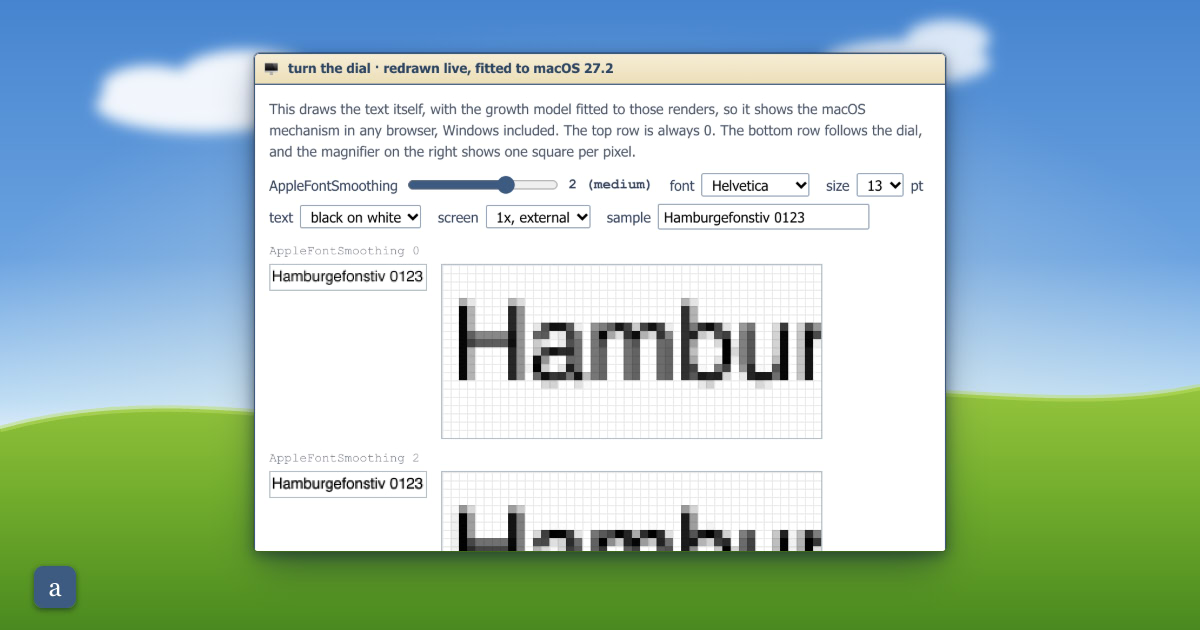
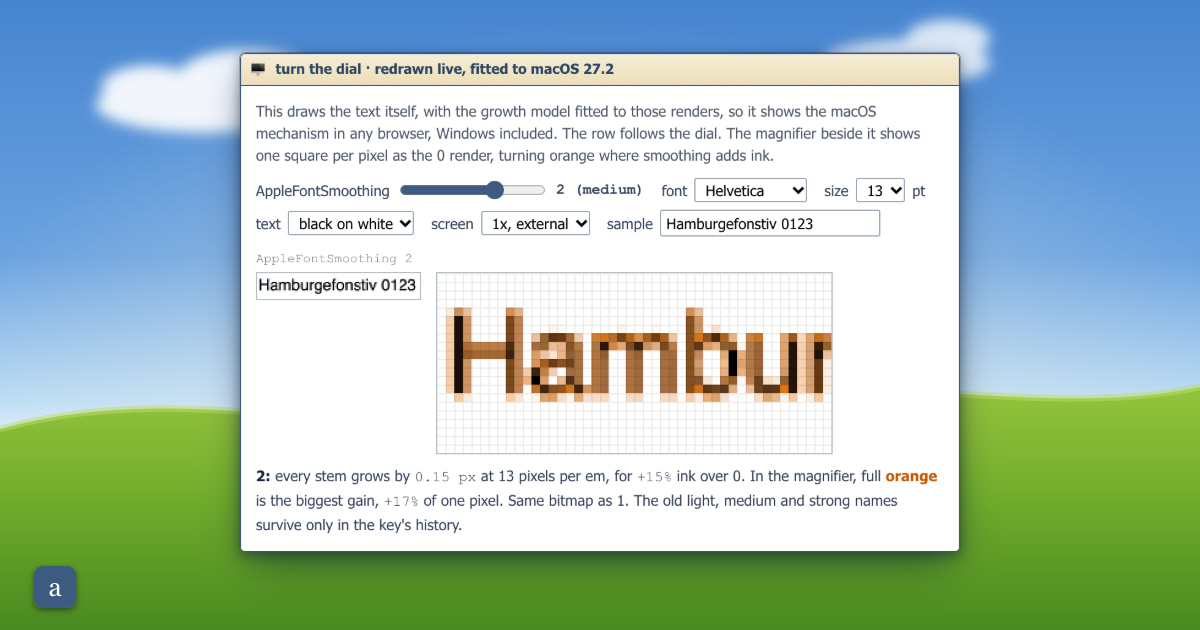
feat(lwe/smoothing): mark the added ink in orange instead of a 0 row
The dial showed a fixed AppleFontSmoothing 0 row above the row that
follows the slider. The slider already reaches 0, so the comparison now
lives inside one picture: the magnifier draws the 0 render and pulls each
pixel toward orange by how much ink smoothing added there.

The tint scales to the largest gain in view, and the readout prints that
peak (+17% of one pixel for 13 pt black-on-white, +41% white-on-black).
An unscaled tint was too faint to find, because a 13 pt edge pixel gains
about 7%. Per-pixel outlines were tried and dropped: at 1x nearly every
inked pixel is an edge pixel, so they boxed the whole word.

The raster width now reserves the 0.6 px growth cap, so the 0 render and
the grown render always share dimensions. Without that, a growth that
crossed a pixel boundary made the arrays one column apart and the
white-on-black readout printed NaN. Checked across 288 font, size,
polarity, scale and value combinations. The OG card is rebaked from the
new dial.

Changed region(s): [[0.185, 0.0603, 0.8325, 0.9048], [0.6783, 0.4222, 0.7092, 0.4524]]

diff --git a/src/pages/lwe/smoothing.html b/src/pages/lwe/smoothing.html
@@ -22,7 +22,7 @@
 <link rel="stylesheet" href="/lwe-base.css">
 <style>:root{--accent:#3d5a80;--accent-soft:var(--surface-desktop);--glyph:"a";--pic-g0:#6b88b0;--pic-g1:#3d5a80;--pic-border:#2c4462;--name-color:#2c4462;--glyph-font:Georgia, serif}
 .msg .bubble code { font-family: var(--font-mono); font-size: var(--text-sm); background: var(--face-light); padding: 0 3px; border-radius: 2px; }
-.fs-ctl{display:flex;flex-wrap:wrap;gap:6px 14px;align-items:center;margin:0 0 10px;font-size:var(--text-xs);color:var(--slate-38)}.fs-ctl label{display:flex;flex-wrap:wrap;align-items:center;gap:6px;max-width:100%}.fs-ctl select,.fs-ctl input[type=text],.fs-ctl input:not([type]){font:inherit;font-size:var(--text-xs);padding:1px 4px;border:1px solid var(--slate-73);border-radius:2px;background:#fff}.fs-ctl input[type=range]{accent-color:var(--accent);width:9em;max-width:45vw}.fs-txt input{width:15em;max-width:100%}.fs-row{margin:0 0 8px}.fs-lab{font-size:var(--text-2xs);color:var(--slate-55);font-family:var(--font-mono);margin:0 0 3px}.fs-pair{display:flex;gap:12px;align-items:flex-start;flex-wrap:wrap}.fs-act{image-rendering:pixelated;display:block;max-width:100%;border:1px solid var(--slate-80)}.fs-mag{image-rendering:pixelated;display:block;max-width:100%;height:auto;border:1px solid var(--slate-80)}.fs-big{display:block;max-width:100%;height:auto;border:1px solid var(--slate-80)}.fs-out{font-size:var(--text-xs);color:var(--slate-38);margin:8px 0 0;line-height:1.5}.fs-out b{color:var(--slate-26)}.demo .mono{font-family:var(--font-mono)}.st-n{color:var(--slate-55)}.pp-tbl{border-collapse:collapse;font-size:var(--text-xs)}.pp-tbl td{padding:2px 14px 2px 0;border-bottom:1px solid var(--mist-96)}.pp-tbl td:first-child{color:var(--slate-55)}.pp-v{font-size:var(--text-xs);color:var(--slate-26);margin:8px 0 0;line-height:1.5}
+.fs-ctl{display:flex;flex-wrap:wrap;gap:6px 14px;align-items:center;margin:0 0 10px;font-size:var(--text-xs);color:var(--slate-38)}.fs-ctl label{display:flex;flex-wrap:wrap;align-items:center;gap:6px;max-width:100%}.fs-ctl select,.fs-ctl input[type=text],.fs-ctl input:not([type]){font:inherit;font-size:var(--text-xs);padding:1px 4px;border:1px solid var(--slate-73);border-radius:2px;background:#fff}.fs-ctl input[type=range]{accent-color:var(--accent);width:9em;max-width:45vw}.fs-txt input{width:15em;max-width:100%}.fs-row{margin:0 0 8px}.fs-lab{font-size:var(--text-2xs);color:var(--slate-55);font-family:var(--font-mono);margin:0 0 3px}.fs-pair{display:flex;gap:12px;align-items:flex-start;flex-wrap:wrap}.fs-act{image-rendering:pixelated;display:block;max-width:100%;border:1px solid var(--slate-80)}.fs-mag{image-rendering:pixelated;display:block;max-width:100%;height:auto;border:1px solid var(--slate-80)}.fs-big{display:block;max-width:100%;height:auto;border:1px solid var(--slate-80)}.fs-out{font-size:var(--text-xs);color:var(--slate-38);margin:8px 0 0;line-height:1.5}.fs-out b{color:var(--slate-26)}.fs-mark{color:#c25a00;font-weight:bold}.demo .mono{font-family:var(--font-mono)}.st-n{color:var(--slate-55)}.pp-tbl{border-collapse:collapse;font-size:var(--text-xs)}.pp-tbl td{padding:2px 14px 2px 0;border-bottom:1px solid var(--mist-96)}.pp-tbl td:first-child{color:var(--slate-55)}.pp-v{font-size:var(--text-xs);color:var(--slate-26);margin:8px 0 0;line-height:1.5}
 body { text-wrap: pretty; } /* progressive; older engines ignore it */
 </style>
 <link rel="stylesheet" href="/luna.css">
@@ -58,7 +58,7 @@ body { text-wrap: pretty; } /* progressive; older engines ignore it */
 
       <div class="demo" id="demo-dial">
         <div class="bar">turn the dial &middot; redrawn live, fitted to macOS 27.2</div>
-        <div class="pad"><p class="lead">This draws the text itself, with the growth model fitted to those renders, so it shows the macOS mechanism in any browser, Windows included. The top row is always 0. The bottom row follows the dial, and the magnifier on the right shows one square per pixel.</p><div class="fs-ctl"><label>AppleFontSmoothing <input type="range" id="fsVal" min="0" max="3" step="1" value="2"> <b id="fsValL" class="mono">2</b></label><label>font <select id="fsFont"><option value="Helvetica, Arial, sans-serif">Helvetica</option><option value="Tahoma, Verdana, sans-serif">Tahoma</option><option value="Verdana, sans-serif">Verdana</option><option value="Georgia, serif">Georgia</option><option value="'Courier New', monospace">Courier New</option><option value="system-ui, sans-serif">system-ui</option></select></label><label>size <select id="fsSize"><option>11</option><option selected>13</option><option>16</option><option>24</option></select> pt</label><label>text <select id="fsPol"><option value="light">black on white</option><option value="dark">white on black</option></select></label><label>screen <select id="fsScale"><option value="1">1x, external</option><option value="2">2x, Retina</option></select></label><label class="fs-txt">sample <input id="fsText" value="Hamburgefonstiv 0123" maxlength="40" spellcheck="false"></label></div><div class="fs-row"><div class="fs-lab">AppleFontSmoothing 0</div><div class="fs-pair"><canvas id="fsRow0" class="fs-act"></canvas><canvas id="fsMag0" class="fs-mag"></canvas></div></div><div class="fs-row"><div class="fs-lab" id="fsRowVL">AppleFontSmoothing 2</div><div class="fs-pair"><canvas id="fsRowV" class="fs-act"></canvas><canvas id="fsMagV" class="fs-mag"></canvas></div></div><p class="fs-out" id="fsOut" aria-live="polite"></p></div>
+        <div class="pad"><p class="lead">This draws the text itself, with the growth model fitted to those renders, so it shows the macOS mechanism in any browser, Windows included. The row follows the dial. The magnifier beside it shows one square per pixel as the 0 render, turning orange where smoothing adds ink.</p><div class="fs-ctl"><label>AppleFontSmoothing <input type="range" id="fsVal" min="0" max="3" step="1" value="2"> <b id="fsValL" class="mono">2</b></label><label>font <select id="fsFont"><option value="Helvetica, Arial, sans-serif">Helvetica</option><option value="Tahoma, Verdana, sans-serif">Tahoma</option><option value="Verdana, sans-serif">Verdana</option><option value="Georgia, serif">Georgia</option><option value="'Courier New', monospace">Courier New</option><option value="system-ui, sans-serif">system-ui</option></select></label><label>size <select id="fsSize"><option>11</option><option selected>13</option><option>16</option><option>24</option></select> pt</label><label>text <select id="fsPol"><option value="light">black on white</option><option value="dark">white on black</option></select></label><label>screen <select id="fsScale"><option value="1">1x, external</option><option value="2">2x, Retina</option></select></label><label class="fs-txt">sample <input id="fsText" value="Hamburgefonstiv 0123" maxlength="40" spellcheck="false"></label></div><div class="fs-row"><div class="fs-lab" id="fsRowVL">AppleFontSmoothing 2</div><div class="fs-pair"><canvas id="fsRowV" class="fs-act"></canvas><canvas id="fsMagV" class="fs-mag"></canvas></div></div><p class="fs-out" id="fsOut" aria-live="polite"></p></div>
       </div>
 
       <div class="msg you"><div class="pic"></div><div><div class="who"><b>aadharsh</b><time>22:44</time></div>
@@ -151,7 +151,10 @@ function raster(text, family, px, grow, sub, dx) {
   var S = 8 * sub, step = S / sub;
   wctx.font = px * S + "px " + family;
   var tw = wctx.measureText(text).width / S;
-  var W = Math.ceil(tw + grow + 3), H = Math.ceil(px * 1.4) + 2;
+  // The width reserves the 0.6 px growth cap whatever grow is, so a line
+  // drawn at 0 and the same line grown share dimensions and can be
+  // compared pixel for pixel.
+  var W = Math.ceil(tw + 0.6 + 3), H = Math.ceil(px * 1.4) + 2;
   work.width = W * S; work.height = H * S;
   wctx.font = px * S + "px " + family;
   // macOS puts the baseline on a whole pixel; the horizontal origin keeps
@@ -200,45 +203,64 @@ function growth(ppem, dark) { return Math.min((dark ? 0.032 : 0.0116) * ppem, 0.
 initWhenNear("demo-dial", function() {
   var $ = function(id) { return document.getElementById(id)       ; };
   var val = $("fsVal"), fam = $("fsFont"), size = $("fsSize"), pol = $("fsPol"), sc = $("fsScale"), txt = $("fsText");
-  var c0 = $("fsRow0"), cv = $("fsRowV"), m0 = $("fsMag0"), mv = $("fsMagV"), out = $("fsOut"), lab = $("fsValL"), labV = $("fsRowVL");
-  if (!val || !c0) return;
+  var cv = $("fsRowV"), mv = $("fsMagV"), out = $("fsOut"), lab = $("fsValL"), labV = $("fsRowVL");
+  if (!val || !cv) return;
   var NAMES = ["off", "light", "medium", "strong"];
-  function draw(canvas, mag, r, dark, scale) {
+  // The ink smoothing adds over 0 is drawn in this color in the magnifier.
+  var MARK = [232, 115, 12];
+  var tint = document.createElement("canvas");
+  // Draws the true render at actual size and returns the largest gain any
+  // pixel got, which the readout prints as the magnifier's scale.
+  function draw(canvas, mag, r, base, dark, scale) {
     var fg = dark ? 255 : 0, bg = dark ? 0 : 255;
     canvas.width = r.w; canvas.height = r.h;
     canvas.style.width = r.w / scale + "px";
-    var ctx = canvas.getContext("2d"), img = ctx.createImageData(r.w, r.h);
-    for (var i = 0; i < r.w * r.h; i++) {
+    var ctx = canvas.getContext("2d")                            , img = ctx.createImageData(r.w, r.h);
+    var Z = 7, cw = Math.min(r.w, Math.round(46 * scale)), peak = 0, i;
+    for (i = 0; i < r.w * r.h; i++) {
       var v = blend(fg, bg, r.cov[i]);
       img.data[i * 4] = img.data[i * 4 + 1] = img.data[i * 4 + 2] = v; img.data[i * 4 + 3] = 255;
+      peak = Math.max(peak, Math.min(1, r.cov[i]) - Math.min(1, base.cov[i]));
     }
     ctx.putImageData(img, 0, 0);
-    // The magnifier copies device pixels with no smoothing, so each square
-    // on screen is exactly one pixel the renderer chose.
-    var Z = 7, cw = Math.min(r.w, Math.round(46 * scale));
+    // The magnified copy is a difference map: each square shows what 0
+    // drew, pulled toward orange by its gain as a fraction of the peak gain.
+    // At 13 px a pixel gains about 7% of ink, which an unscaled tint shows
+    // too faintly to find; scaling to the peak makes the pattern visible,
+    // and the readout states the peak so the scale is never hidden.
+    var tx = (tint.width = r.w, tint.height = r.h, tint.getContext("2d")                            ), timg = tx.createImageData(r.w, r.h);
+    for (i = 0; i < r.w * r.h; i++) {
+      var c0 = blend(fg, bg, base.cov[i]), t = peak > 0 ? Math.max(0, Math.min(1, r.cov[i]) - Math.min(1, base.cov[i])) / peak : 0;
+      for (var k = 0; k < 3; k++) timg.data[i * 4 + k] = Math.round(c0 + (MARK[k] - c0) * t);
+      timg.data[i * 4 + 3] = 255;
+    }
+    tx.putImageData(timg, 0, 0);
     mag.width = cw * Z; mag.height = r.h * Z;
     var mx = mag.getContext("2d");
     mx.imageSmoothingEnabled = false;
-    mx.drawImage(canvas, 0, 0, cw, r.h, 0, 0, cw * Z, r.h * Z);
+    mx.drawImage(tint, 0, 0, cw, r.h, 0, 0, cw * Z, r.h * Z);
     mx.strokeStyle = dark ? "rgba(255,255,255,.10)" : "rgba(0,0,0,.08)";
     mx.beginPath();
     for (var x = 0; x <= cw; x++) { mx.moveTo(x * Z + 0.5, 0); mx.lineTo(x * Z + 0.5, r.h * Z); }
     for (var y = 0; y <= r.h; y++) { mx.moveTo(0, y * Z + 0.5); mx.lineTo(cw * Z, y * Z + 0.5); }
     mx.stroke();
+    return peak;
   }
   function ink(r) { var s = 0; for (var i = 0; i < r.cov.length; i++) s += Math.min(1, r.cov[i]); return s; }
   function render() {
     var v = +val.value, dark = pol.value === "dark", scale = +sc.value, pt = +size.value;
     var px = pt * scale, text = txt.value || "Hamburgefonstiv";
     var g = v > 0 ? growth(px, dark) : 0;
+    // The 0 render is never shown on its own: it is the baseline the orange
+    // in the magnifier and the ink readout are both measured against.
     var r0 = raster(text, fam.value, px, 0, 1, 0), rv = raster(text, fam.value, px, g, 1, 0);
-    draw(c0, m0, r0, dark, scale); draw(cv, mv, rv, dark, scale);
+    var peak = draw(cv, mv, rv, r0, dark, scale);
     lab.textContent = v + " (" + NAMES[v] + ")";
     labV.textContent = "AppleFontSmoothing " + v;
     var more = Math.round((ink(rv) / ink(r0) - 1) * 100);
     out.innerHTML = v === 0
-      ? "<b>0:</b> plain coverage. Both rows are the same bitmap."
-      : "<b>" + v + ":</b> every stem grows by <span class=\"mono\">" + g.toFixed(2) + " px</span> at " + px + " pixels per em, for <span class=\"mono\">+" + more + "%</span> ink. "
+      ? "<b>0:</b> plain area coverage, with no growth. Slide right to see what any other value adds."
+      : "<b>" + v + ":</b> every stem grows by <span class=\"mono\">" + g.toFixed(2) + " px</span> at " + px + " pixels per em, for <span class=\"mono\">+" + more + "%</span> ink over 0. In the magnifier, full <span class=\"fs-mark\">orange</span> is the biggest gain, <span class=\"mono\">+" + Math.round(peak * 100) + "%</span> of one pixel. "
         + (v === 1 ? "Slide to 2 or 3: on macOS 27.2 they draw the same bytes as 1." : "Same bitmap as 1. The old light, medium and strong names survive only in the key's history.");
   }
   [val, fam, size, pol, sc].forEach(function(el) { el.addEventListener("input", render); });

diff --git a/pipelines/lwe/specs/smoothing-demo.ts b/pipelines/lwe/specs/smoothing-demo.ts
@@ -28,7 +28,10 @@ function raster(text, family, px, grow, sub, dx) {
   var S = 8 * sub, step = S / sub;
   wctx.font = px * S + "px " + family;
   var tw = wctx.measureText(text).width / S;
-  var W = Math.ceil(tw + grow + 3), H = Math.ceil(px * 1.4) + 2;
+  // The width reserves the 0.6 px growth cap whatever grow is, so a line
+  // drawn at 0 and the same line grown share dimensions and can be
+  // compared pixel for pixel.
+  var W = Math.ceil(tw + 0.6 + 3), H = Math.ceil(px * 1.4) + 2;
   work.width = W * S; work.height = H * S;
   wctx.font = px * S + "px " + family;
   // macOS puts the baseline on a whole pixel; the horizontal origin keeps
@@ -77,45 +80,64 @@ function growth(ppem, dark) { return Math.min((dark ? 0.032 : 0.0116) * ppem, 0.
 initWhenNear("demo-dial", function() {
   var $ = function(id) { return document.getElementById(id) as any; };
   var val = $("fsVal"), fam = $("fsFont"), size = $("fsSize"), pol = $("fsPol"), sc = $("fsScale"), txt = $("fsText");
-  var c0 = $("fsRow0"), cv = $("fsRowV"), m0 = $("fsMag0"), mv = $("fsMagV"), out = $("fsOut"), lab = $("fsValL"), labV = $("fsRowVL");
-  if (!val || !c0) return;
+  var cv = $("fsRowV"), mv = $("fsMagV"), out = $("fsOut"), lab = $("fsValL"), labV = $("fsRowVL");
+  if (!val || !cv) return;
   var NAMES = ["off", "light", "medium", "strong"];
-  function draw(canvas, mag, r, dark, scale) {
+  // The ink smoothing adds over 0 is drawn in this color in the magnifier.
+  var MARK = [232, 115, 12];
+  var tint = document.createElement("canvas");
+  // Draws the true render at actual size and returns the largest gain any
+  // pixel got, which the readout prints as the magnifier's scale.
+  function draw(canvas, mag, r, base, dark, scale) {
     var fg = dark ? 255 : 0, bg = dark ? 0 : 255;
     canvas.width = r.w; canvas.height = r.h;
     canvas.style.width = r.w / scale + "px";
-    var ctx = canvas.getContext("2d"), img = ctx.createImageData(r.w, r.h);
-    for (var i = 0; i < r.w * r.h; i++) {
+    var ctx = canvas.getContext("2d") as CanvasRenderingContext2D, img = ctx.createImageData(r.w, r.h);
+    var Z = 7, cw = Math.min(r.w, Math.round(46 * scale)), peak = 0, i;
+    for (i = 0; i < r.w * r.h; i++) {
       var v = blend(fg, bg, r.cov[i]);
       img.data[i * 4] = img.data[i * 4 + 1] = img.data[i * 4 + 2] = v; img.data[i * 4 + 3] = 255;
+      peak = Math.max(peak, Math.min(1, r.cov[i]) - Math.min(1, base.cov[i]));
     }
     ctx.putImageData(img, 0, 0);
-    // The magnifier copies device pixels with no smoothing, so each square
-    // on screen is exactly one pixel the renderer chose.
-    var Z = 7, cw = Math.min(r.w, Math.round(46 * scale));
+    // The magnified copy is a difference map: each square shows what 0
+    // drew, pulled toward orange by its gain as a fraction of the peak gain.
+    // At 13 px a pixel gains about 7% of ink, which an unscaled tint shows
+    // too faintly to find; scaling to the peak makes the pattern visible,
+    // and the readout states the peak so the scale is never hidden.
+    var tx = (tint.width = r.w, tint.height = r.h, tint.getContext("2d") as CanvasRenderingContext2D), timg = tx.createImageData(r.w, r.h);
+    for (i = 0; i < r.w * r.h; i++) {
+      var c0 = blend(fg, bg, base.cov[i]), t = peak > 0 ? Math.max(0, Math.min(1, r.cov[i]) - Math.min(1, base.cov[i])) / peak : 0;
+      for (var k = 0; k < 3; k++) timg.data[i * 4 + k] = Math.round(c0 + (MARK[k] - c0) * t);
+      timg.data[i * 4 + 3] = 255;
+    }
+    tx.putImageData(timg, 0, 0);
     mag.width = cw * Z; mag.height = r.h * Z;
     var mx = mag.getContext("2d");
     mx.imageSmoothingEnabled = false;
-    mx.drawImage(canvas, 0, 0, cw, r.h, 0, 0, cw * Z, r.h * Z);
+    mx.drawImage(tint, 0, 0, cw, r.h, 0, 0, cw * Z, r.h * Z);
     mx.strokeStyle = dark ? "rgba(255,255,255,.10)" : "rgba(0,0,0,.08)";
     mx.beginPath();
     for (var x = 0; x <= cw; x++) { mx.moveTo(x * Z + 0.5, 0); mx.lineTo(x * Z + 0.5, r.h * Z); }
     for (var y = 0; y <= r.h; y++) { mx.moveTo(0, y * Z + 0.5); mx.lineTo(cw * Z, y * Z + 0.5); }
     mx.stroke();
+    return peak;
   }
   function ink(r) { var s = 0; for (var i = 0; i < r.cov.length; i++) s += Math.min(1, r.cov[i]); return s; }
   function render() {
     var v = +val.value, dark = pol.value === "dark", scale = +sc.value, pt = +size.value;
     var px = pt * scale, text = txt.value || "Hamburgefonstiv";
     var g = v > 0 ? growth(px, dark) : 0;
+    // The 0 render is never shown on its own: it is the baseline the orange
+    // in the magnifier and the ink readout are both measured against.
     var r0 = raster(text, fam.value, px, 0, 1, 0), rv = raster(text, fam.value, px, g, 1, 0);
-    draw(c0, m0, r0, dark, scale); draw(cv, mv, rv, dark, scale);
+    var peak = draw(cv, mv, rv, r0, dark, scale);
     lab.textContent = v + " (" + NAMES[v] + ")";
     labV.textContent = "AppleFontSmoothing " + v;
     var more = Math.round((ink(rv) / ink(r0) - 1) * 100);
     out.innerHTML = v === 0
-      ? "<b>0:</b> plain coverage. Both rows are the same bitmap."
-      : "<b>" + v + ":</b> every stem grows by <span class=\"mono\">" + g.toFixed(2) + " px</span> at " + px + " pixels per em, for <span class=\"mono\">+" + more + "%</span> ink. "
+      ? "<b>0:</b> plain area coverage, with no growth. Slide right to see what any other value adds."
+      : "<b>" + v + ":</b> every stem grows by <span class=\"mono\">" + g.toFixed(2) + " px</span> at " + px + " pixels per em, for <span class=\"mono\">+" + more + "%</span> ink over 0. In the magnifier, full <span class=\"fs-mark\">orange</span> is the biggest gain, <span class=\"mono\">+" + Math.round(peak * 100) + "%</span> of one pixel. "
         + (v === 1 ? "Slide to 2 or 3: on macOS 27.2 they draw the same bytes as 1." : "Same bitmap as 1. The old light, medium and strong names survive only in the key's history.");
   }
   [val, fam, size, pol, sc].forEach(function(el) { el.addEventListener("input", render); });
